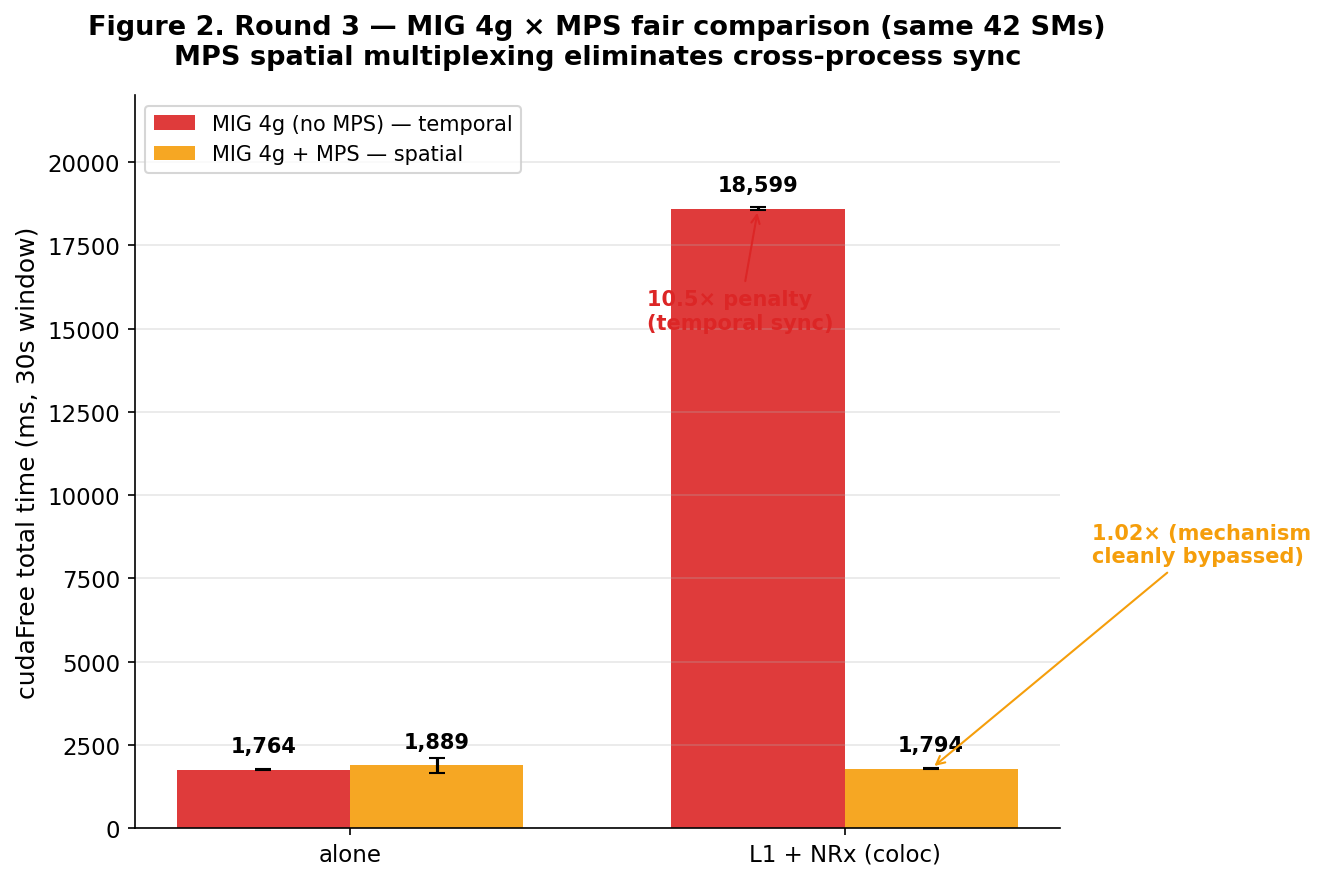
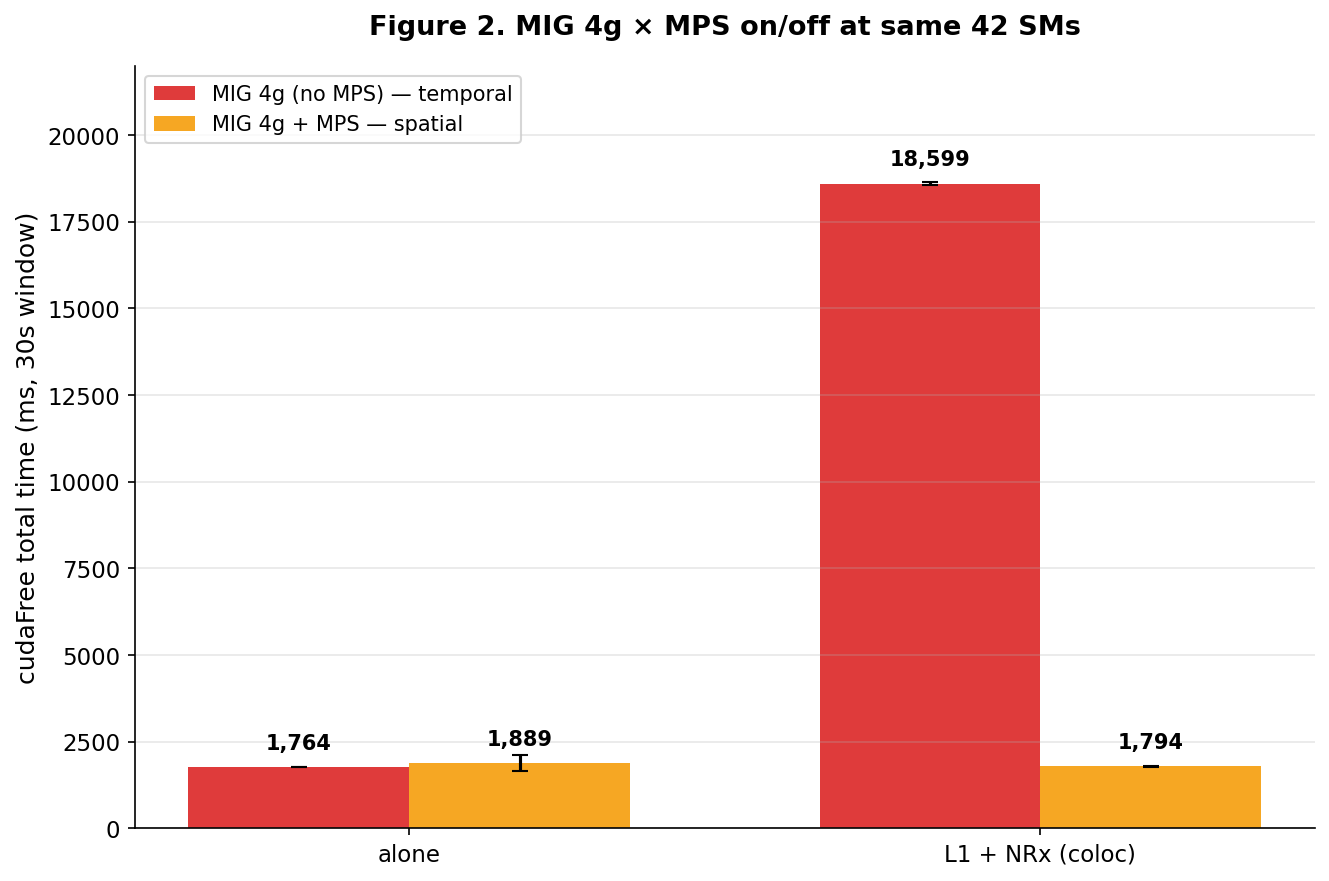
fig2: strip annotation text ("10.5×", "1.02×") and arrows
User requested a cleaner Slide-1 chart — keep numeric bar labels only.
Title also softened from "MPS spatial multiplexing eliminates cross-process
sync" to a neutral "MIG 4g × MPS on/off at same 42 SMs" to match the more
cautious framing in the 6-slide summary.

diff --git a/results/20260708/scripts/generate_figures.py b/results/20260708/scripts/generate_figures.py
@@ -98,24 +98,13 @@ for bar_group in [bars1, bars2]:
                 f"{v:,.0f}", ha="center", va="bottom", fontsize=10, fontweight="bold")
 
 ax.set_ylabel("cudaFree total time (ms, 30s window)", fontsize=12)
-ax.set_title("Figure 2. Round 3 — MIG 4g × MPS fair comparison (same 42 SMs)\nMPS spatial multiplexing eliminates cross-process sync",
+ax.set_title("Figure 2. MIG 4g × MPS on/off at same 42 SMs",
              fontsize=13, fontweight="bold", pad=15)
 ax.set_xticks(x)
 ax.set_xticklabels(r3_labels, fontsize=11)
 ax.set_ylim(0, 22000)
 ax.legend(loc="upper left", fontsize=10)
 ax.grid(axis="y", alpha=0.3)
-
-# Add annotation for the mechanism
-ax.annotate("10.5× penalty\n(temporal sync)",
-            xy=(1 - w/2, noMPS[1]), xytext=(0.6, 15000),
-            fontsize=10, color="#dc2626", fontweight="bold",
-            arrowprops=dict(arrowstyle="->", color="#dc2626"))
-
-ax.annotate("1.02× (mechanism\ncleanly bypassed)",
-            xy=(1 + w/2, withMPS[1]), xytext=(1.5, 8000),
-            fontsize=10, color="#f59e0b", fontweight="bold",
-            arrowprops=dict(arrowstyle="->", color="#f59e0b"))
 
 plt.tight_layout()
 plt.savefig(os.path.join(FIG_DIR, "fig2_round3_fair_comparison.png"), dpi=150, bbox_inches="tight")
